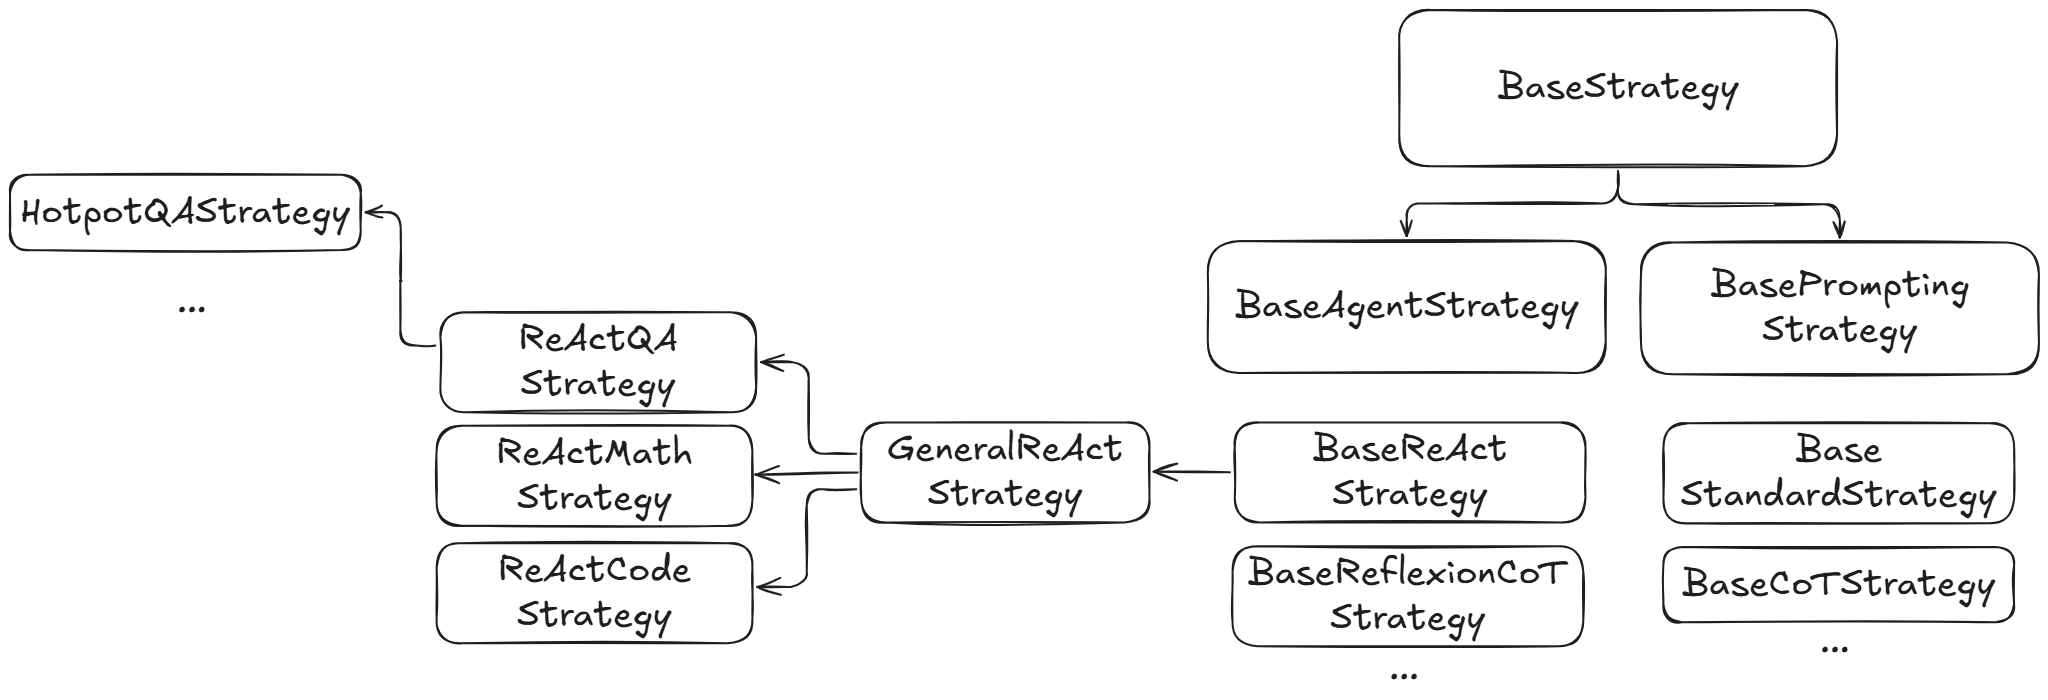
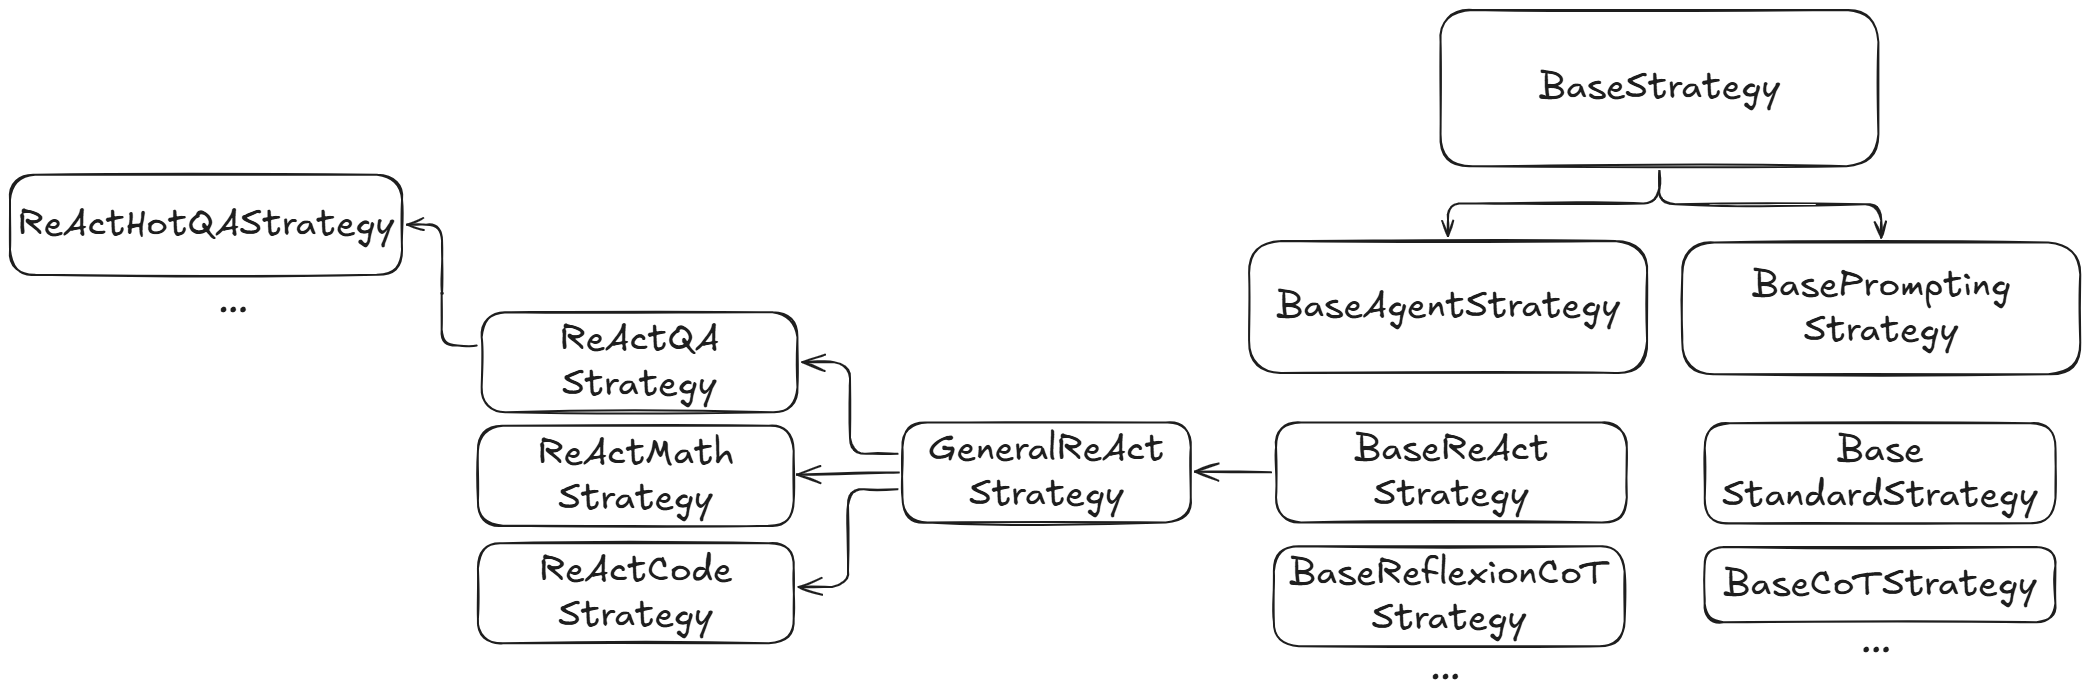
updated docs

diff --git a/CONTRIBUTING.md b/CONTRIBUTING.md
@@ -152,8 +152,36 @@ Then, later, should you choose to use it, run:
 pre-commit install
 ```
 
+## 3. 🎹 Onboarding
 
-## 3. 🧭 Navigating the Repository
+It's integral to get up to speed on the project before you start contributing! There are 2 focuses in onboarding:
+- **Understanding the code**
+  - Understand the structure of the library, the purpose of each folder and modules; notice repeating patterns and reference the tree diagrams above
+  - Understand the base classes and files as they're integral to the rest of the library
+  - Understand core methods in classes that are used and understand how the library is used 
+- **Understanding the literature**
+    - Read through survey paper(s) to survey the field
+    - Read through the core papers of our library
+      - Survey: https://arxiv.org/abs/2309.07864
+      - Survey: https://arxiv.org/abs/2309.14365
+      - Survey: https://arxiv.org/abs/2308.11432
+      - Conceptual: https://arxiv.org/abs/2309.02427
+      - Methods
+        - Prompting
+          - Chain-of-Thought: https://arxiv.org/abs/2201.11903
+          - Self-Refine: https://arxiv.org/pdf/2303.17651
+        - Agentic
+          - ReAct: https://arxiv.org/abs/2210.03629
+          - Reflexion: https://arxiv.org/abs/2303.11366
+          - CRITIC: https://arxiv.org/pdf/2305.11738
+          - ExpeL: https://arxiv.org/pdf/2308.10144
+          - LATS: https://arxiv.org/abs/2310.04406
+          - CLIN: https://arxiv.org/pdf/2310.10134
+          - AgentOptimizer: https://arxiv.org/pdf/2402.11359
+
+After this, you're ready to start contributing!
+
+## 4. 🧭 Navigating the Repository
 
 This section is for understanding the repository structure, the individual files and how they relate to each other, and the contracts of certain important classes/methods. 
 
@@ -176,7 +204,17 @@ This section is for understanding the repository structure, the individual files
 ├── reports                         <- Diagrams, figures, images, whiteboards.
 └── tests                           <- Unit tests, structure reflects agential.
 ```
-_Overall repository structure._
+_Figure 1. Overall repository structure._
+
+Besides our library folder `agential`, there are 6 main folders:
+- `data`: This folder contains the data for each benchmark. Each benchmark has its own folder, and each folder contains the data for that benchmark.
+- `docs`: This folder contains the documentation for the project.
+- `experiments`: This folder contains the experiments for each method. Each method has its own folder, and each folder contains the scripts for that method. This folder also contains experiment results saved locally.
+- `notebooks`: This folder contains the notebooks for each agent. Each notebook contains the code for that agent.
+- `reports`: This folder contains the reports/figures/images for the project.
+- `tests`: This folder contains the unit tests for the project.
+
+<br>
 
 ```
 agential/
@@ -241,15 +279,35 @@ agential/
 │   └── validation.py
 └── constants.py
 ```
-_Structure of Agential._
+_Figure 2. Structure of Agential._
+
+Treat this diagram as a map that you can refer to when you need to understand the structure of the library.
+Broadly, the library is divided into 5 main parts:
+- `agents`: This folder contains one folder/module for each agent. Each agent has its own folder.
+- `core`: This folder contains the core components of the library. This includes the `LLM` and `MockLLM` classes, benchmark-specific few-shot examples, and important base classes.
+- `eval`: This folder contains the evaluation metrics used to evaluate the performance of the methods.
+- `prompting`: This folder contains one folder/module for each prompting method. 
+- `utils`: This folder contains utility functions used throughout the library.
+
+☝ **Detail**: `agents` and `prompting`, though different, are structured identically. More details on the rest of the library below.
+
+### 3.1 Agent/Prompting
+
+Our library is divided into **prompting** and **agentic** methods. 
+Though they have their separate classes, they are identical. 
+The below dependency structure diagram applies to all methods under `agential.agents` and `agential.prompting`. At the root, the `agent.py` or `prompting.py` is the main class composing of all other components that constitute an agentic or prompting method. 
 
 ![](./reports/img/agent_prompting_structure.png)
+_Figure 3. Dependency structure of an agentic or prompting method._
 
-### 3.1 Agent/Prompting Structure
+This main class (Agent/Prompting from the above figure) is responsible for retrieving and using the correct ***set of prompts***, ***few-shot examples***, and ***strategy*** for a given *benchmark*. 
 
-Our library is divided into **prompting** and **agentic** methods. Though they have their separate classes, they are identical. The above dependency structure diagram applies to all methods under `agential/agents` and `agential/prompting`. At the root, the `agent.py` or `prompting.py` is the main class composing of all other components that constitute an agentic or prompting method. 
+![](./reports/img/method_structure.png)
+_Figure 4. Structure of methods in Agential._
 
-**📌Note** : This main class is responsible for using the correct *set of prompts*, *few-shot examples*, and *strategy* for a given *benchmark*. 
+The "Agent/Prompting" module you see in Figure 3 is an agentic/prompting method from Figure 4. 
+
+Because agents and prompting methods are structurally similar, let's take a closer look at `BaseMethod`, their parent class.
 
 ```py
 class BaseMethod(ABC):
@@ -280,9 +338,12 @@ class BaseMethod(ABC):
     pass
 ```
 
-Above is a simplified version of the `BaseMethod` class. It is the main class that is responsible for using the correct *set of prompts*, *few-shot examples*, and *strategy* for a given *benchmark*. `BaseAgent` and `BasePrompting` inherit from this class and are identical.
+Above is a simplified version of the `BaseMethod` class. 
+It is the main class that is responsible for using the correct ***set of prompts***, ***few-shot examples***, and ***strategy*** for a given *benchmark*. `BaseAgent` and `BasePrompting` inherit from this class and are identical.
 
 The `get_*` methods are indexing into dictionaries of prompts, few-shot examples, and strategies like below.
+`get_fewshots` would retrieve from `REACT_BENCHMARK_FEWSHOTS` (benchmark-specific) and `REACT_FEWSHOTS` (method-specific).
+`get_prompts` would retrieve from `REACT_PROMPTS` and `get_strategy` would retrieve from `REACT_STRATEGIES`.
 
 ```py
 REACT_BENCHMARK_FEWSHOTS = {
@@ -306,40 +367,131 @@ REACT_STRATEGIES = {
 }
 ```
 
-The `generate` method is the main method called during inference. Internally, it calls the strategy's `generate` method. This will be covered more in a later section.
+The rest of this section will dismantle the four main methods above:
+- **Prompts** (in Figure 3): prompts and few-shot examples; this is where the `get_fewshots` and `get_prompts` methods retrieve from.
+- **Strategy** (in Figure 3): the strategy to use for a given benchmark; this covers `get_strategies`.
+- **Outputs** (in Figure 3): the output of the agent/prompting method; this is the output of the `generate` method.
 
-### 3.2 Prompts Structure
+Then, we can go through the `generate` method.
 
-The main class (either `agent.py` or `prompts.py`) will use `prompts.py` if the method requires additional prompts/few-shot examples. 
+### 3.1 Prompts
 
-## 4. 🎹 Onboarding
+**📌Note**: In Agential, we distinguish few-shot examples into two categories:
+- benchmark-specific
+- method-specific
 
-It's integral to get up to speed on the project before you start contributing! There are 2 focuses in onboarding:
-- **Understanding the code**
-  - Understand the structure of the library, the purpose of each folder and modules; notice repeating patterns and reference the tree diagrams above
-  - Understand the base classes and files as they're integral to the rest of the library
-  - Understand core methods in classes that are used and understand how the library is used 
-- **Understanding the literature**
-    - Read through survey paper(s) to survey the field
-    - Read through the core papers of our library
-      - Survey: https://arxiv.org/abs/2309.07864
-      - Survey: https://arxiv.org/abs/2309.14365
-      - Survey: https://arxiv.org/abs/2308.11432
-      - Conceptual: https://arxiv.org/abs/2309.02427
-      - Methods
-        - Prompting
-          - Chain-of-Thought: https://arxiv.org/abs/2201.11903
-          - Self-Refine: https://arxiv.org/pdf/2303.17651
-        - Agentic
-          - ReAct: https://arxiv.org/abs/2210.03629
-          - Reflexion: https://arxiv.org/abs/2303.11366
-          - CRITIC: https://arxiv.org/pdf/2305.11738
-          - ExpeL: https://arxiv.org/pdf/2308.10144
-          - LATS: https://arxiv.org/abs/2310.04406
-          - CLIN: https://arxiv.org/pdf/2310.10134
-          - AgentOptimizer: https://arxiv.org/pdf/2402.11359
+![](./reports/img/prompts_structure.png)
+_Figure 4. Structure of prompts and few-shot examples in Agential._
 
-After this, you're ready to start contributing!
+**Benchmark-specific** few-shot examples are few-shot examples you would use for any agent/method for *that* particular benchmark.
+**Method-specific** few-shot examples are few-shot examples you would use for *that* particular agent/prompting method on a *particular* benchmark.
+
+Benchmark-specific few-shot examples exist in `agential.core.fewshots`. 
+Method-specific few-shot examples exist in `agential.agents.<agent-name>.prompts` or `agential.prompting.<prompting-name>.prompts`.
+
+### 3.2 Strategy
+
+
+`get_strategy` returns the **strategy**, which encapsulates *all* the agent/prompting logic. 
+It may offshore some of this logic to `functional` (functions) or `modules` (modules like `memory.py` or `reflect.py`, etc.).
+
+![](./reports/img/strategy_structure.png)
+_Figure 5. Structure of strategies in Agential._
+
+Figure 4 illustrates the family tree of strategies. 
+Inheriting from `BaseStrategy`, `BaseAgentStrategy` and `BasePromptingStrategy` are the base classes for agentic and prompting methods, respectively.
+These two base classes are then the parents to *method-specific* strategies (like `BaseReActStrategy`).
+These method-specific base strategies are the parents to *benchmark-specific, domain-generic* strategies (like `ReActQAStrategy`).
+These *benchmark-specific, domain-generic* strategies are the parents to *benchmark-specific, benchmark-specific* strategies (like `ReActHotQAStrategy`).
+
+This structure was motivated by the need to provide complete flexibility (if need be) to implementing the method, while also 
+reducing redundant code that may be used across different benchmarks (like QA benchmarks sharing similar functions).
+This structure also aims to capture the nuanced details that come with implementing any particular method for any particular benchmark.  
+
+```py
+class BaseStrategy(ABC):
+  def __init__(
+    self,
+    llm: BaseLLM,
+    testing: bool = False,
+  ) -> None:
+    self.llm = llm
+    self.testing = testing
+
+  @abstractmethod
+  def generate(
+    self,
+    *args: Any,
+    **kwargs: Any,
+  ) -> Any:
+    raise NotImplementedError
+
+  @abstractmethod
+  def reset(self, *args: Any, **kwargs: Any) -> None:
+    raise NotImplementedError
+```
+
+Above is a simplified version of the `BaseStrategy` class. Internally, the agent/prompting class (in Figure 3) will use the strategy's `generate` method when generating the output.
+
+### 3.3 Outputs
+
+The `generate` method returns `BaseOutput`, shown below. This output captures the agent's full trajectory, the final answer, and useful metrics like latency, token usage, and cost.
+
+![](./reports/img/output_structure.png)
+_Figure 6. Structure of outputs in Agential._
+
+```py
+class BaseOutput(BaseModel):
+  answer: str = Field(..., description="The answer generated by the method.")
+  total_prompt_tokens: int = Field(..., description="Total input tokens used.")
+  total_completion_tokens: int = Field(..., description="Total output tokens used.")
+  total_tokens: int = Field(..., description="Total tokens used.")
+  total_prompt_cost: float = Field(
+    ..., description="Total cost of the prompt tokens."
+  )
+  total_completion_cost: float = Field(
+    ..., description="Total cost of the completion tokens."
+  )
+  total_cost: float = Field(..., description="Total cost of the output.")
+  total_prompt_time: float = Field(
+    ...,
+    description="Total time taken for the LLM API to generate the outputs in seconds.",
+  )
+  total_time: float = Field(
+    ...,
+    description="Total time for the method to finish generating in seconds.",
+  )
+  additional_info: Any = Field(
+    ..., description="Additional information related to the output."
+  )
+```
+
+Above is what the `BaseOutput` class looks like. `BaseAgentOutput` and `BasePromptingOutput` are subclasses of `BaseOutput` for agentic and prompting methods, respectively.
+
+### 3.4 Functional
+
+`functional` is a folder that contains functions that are used across different strategies for a given method. `functional` is more of a module useful for defining method-specific functions that are used across different strategies. It is as flexible as needed. 
+
+### 3.5 Modules [Optional]
+
+`modules` vary from `memory.py` to `reflect.py` to one that may be custom defined. `modules` are used to implement the logic of a specific component of a method that is used across different strategies. It is as flexible as needed and may be needed depending on the method.
+
+### 3.6 Summary
+
+By now, we've covered all the components of `agential.core`:
+- `BaseMethod`
+- `BaseOutput`
+- `BaseStrategy`
+
+We've looked at how these base classes are used in `agential.agents` and `agential.prompting` and the structure of each method, including all relevant modules:
+- `agent.py`/`prompting.py`
+- `functional.py`
+- `<modules>.py`
+- `prompts.py`
+- `output.py`
+- `strategies/`
+
+With this knowledge, you should be able to understand the structure of the library. The next step is to understand the onboarding process and figure out a workflow that works for you.
 
 ## 5. ⚒ What do I work on?
 
@@ -349,7 +501,7 @@ Once you’ve decided on an issue, leave a comment and wait for approval! We don
 
 If you’re ever in doubt about whether or not a proposed feature aligns with our library, feel free to raise an issue about it and we’ll get back to you promptly!
 
-
+Since Agential aims to implement as many methods as possible, we're always open to adding more methods and supporting more benchmarks! If you're adding a new benchmark, it may be useful to identify the methods you want to add the benchmark to and familiarizing yourself with the existing code (and strategies). If you're adding a new method, it may be useful to start implementing the logic straight away as a `strategy`, and gradually filter out the components into the other modules.  
 
 ## 6. ❓ Questions
 
